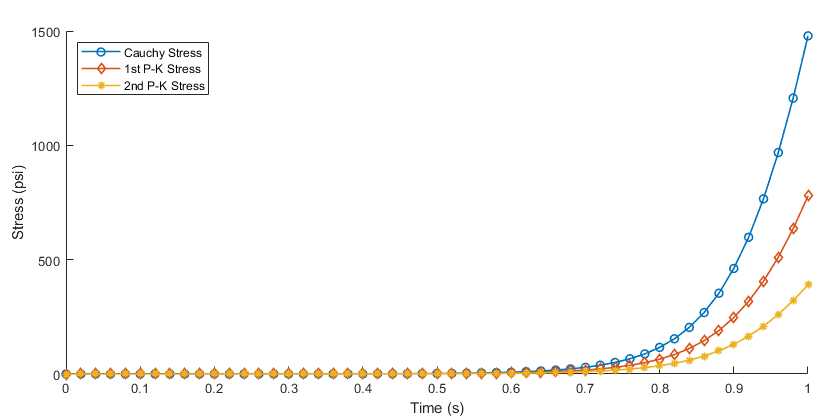
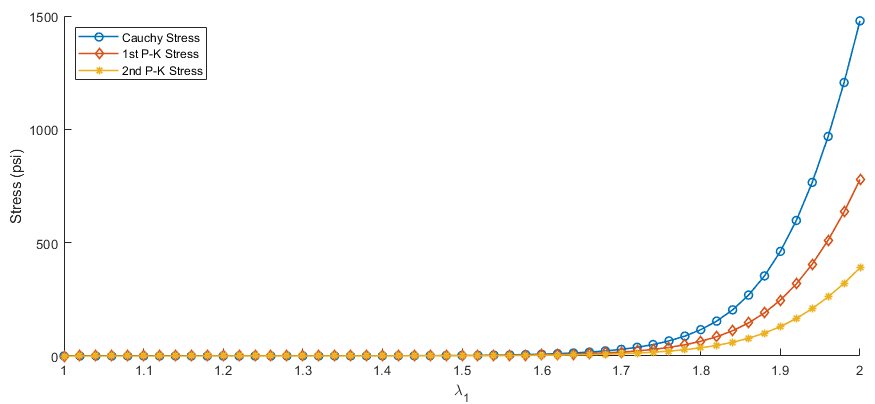
Re-plot hw1 prb5 answer bme 6250

diff --git a/BME6250-Biomech2/Homework1/hw1_BME6250.m b/BME6250-Biomech2/Homework1/hw1_BME6250.m
@@ -173,13 +173,14 @@ for i = 1:length(T_11)
     S_11(i, 1) = S(1, 1);
 end
 
-% plot time vs. Cauchy stress, 1st P-K stress, and 2nd P-K stress
+% plot applied axial stretch ratio vs. 
+% Cauchy stress, 1st P-K stress, and 2nd P-K stress
 figure();
 hold on;
-plot(data.time, T_11, '-o', 'LineWidth', 1.2);
-plot(data.time, P_11, '-d', 'LineWidth', 1.2);
-plot(data.time, S_11, '-*', 'LineWidth', 1.2);
-xlabel('Time (s)');
+plot(lambda1, T_11, '-o', 'LineWidth', 1.2);
+plot(lambda1, P_11, '-d', 'LineWidth', 1.2);
+plot(lambda1, S_11, '-*', 'LineWidth', 1.2);
+xlabel('\lambda_{1}');
 ylabel('Stress (psi)');
 legend('Cauchy Stress', '1st P-K Stress', '2nd P-K Stress', 'Location', 'northwest');
 hold off;
